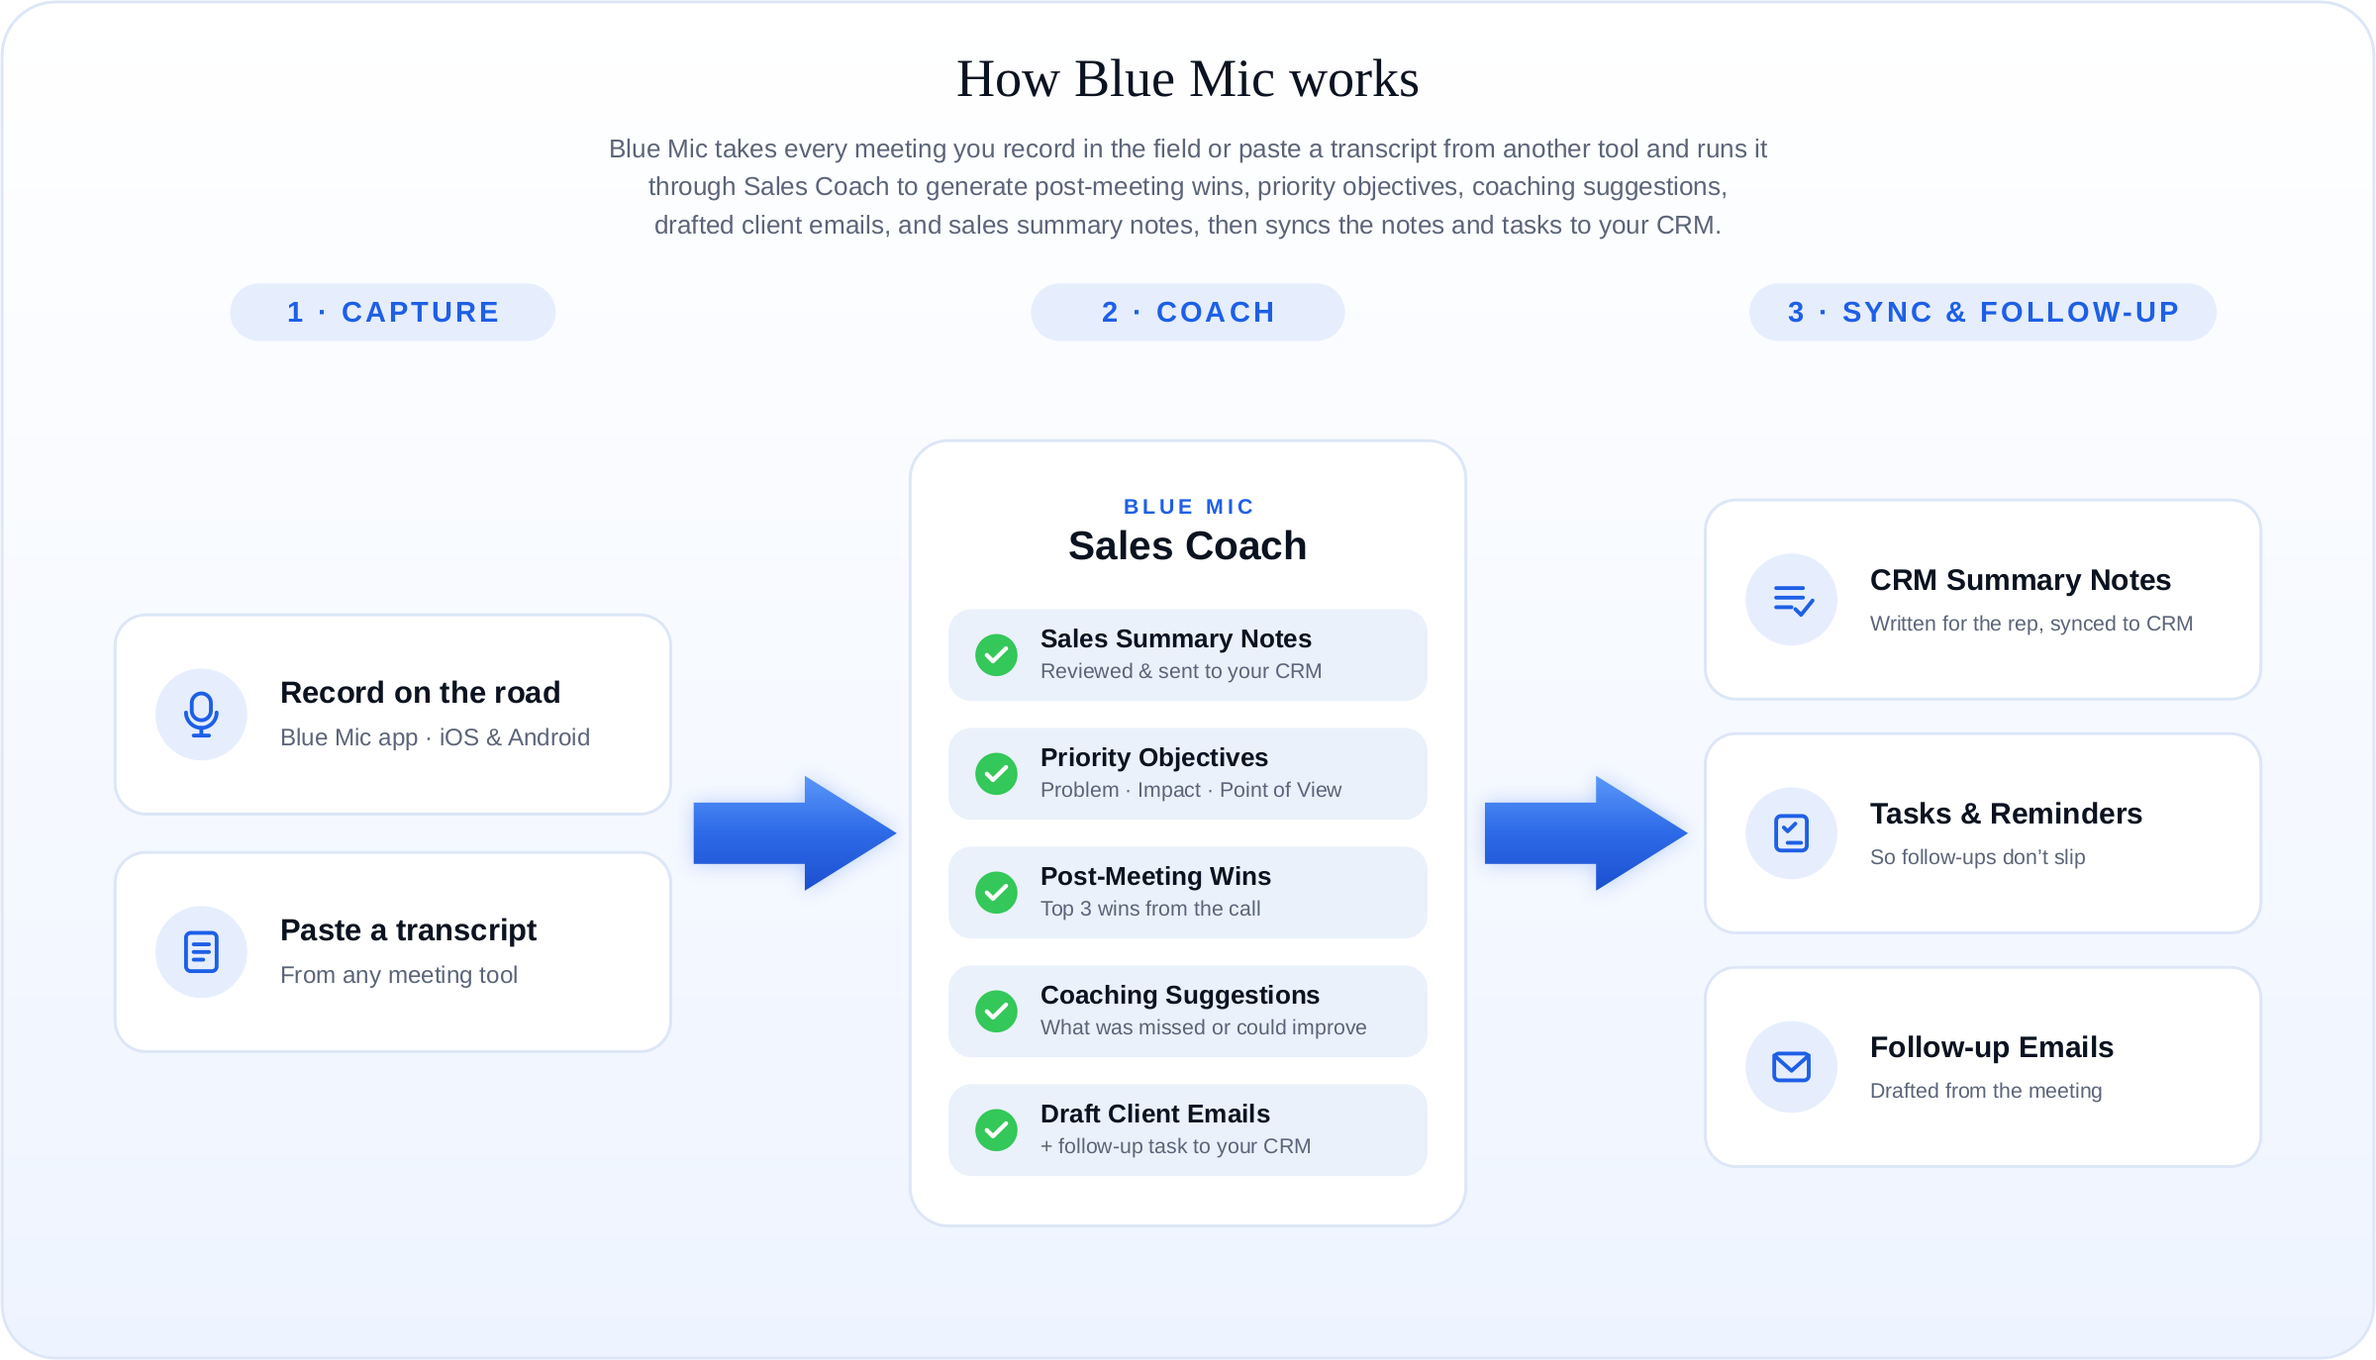
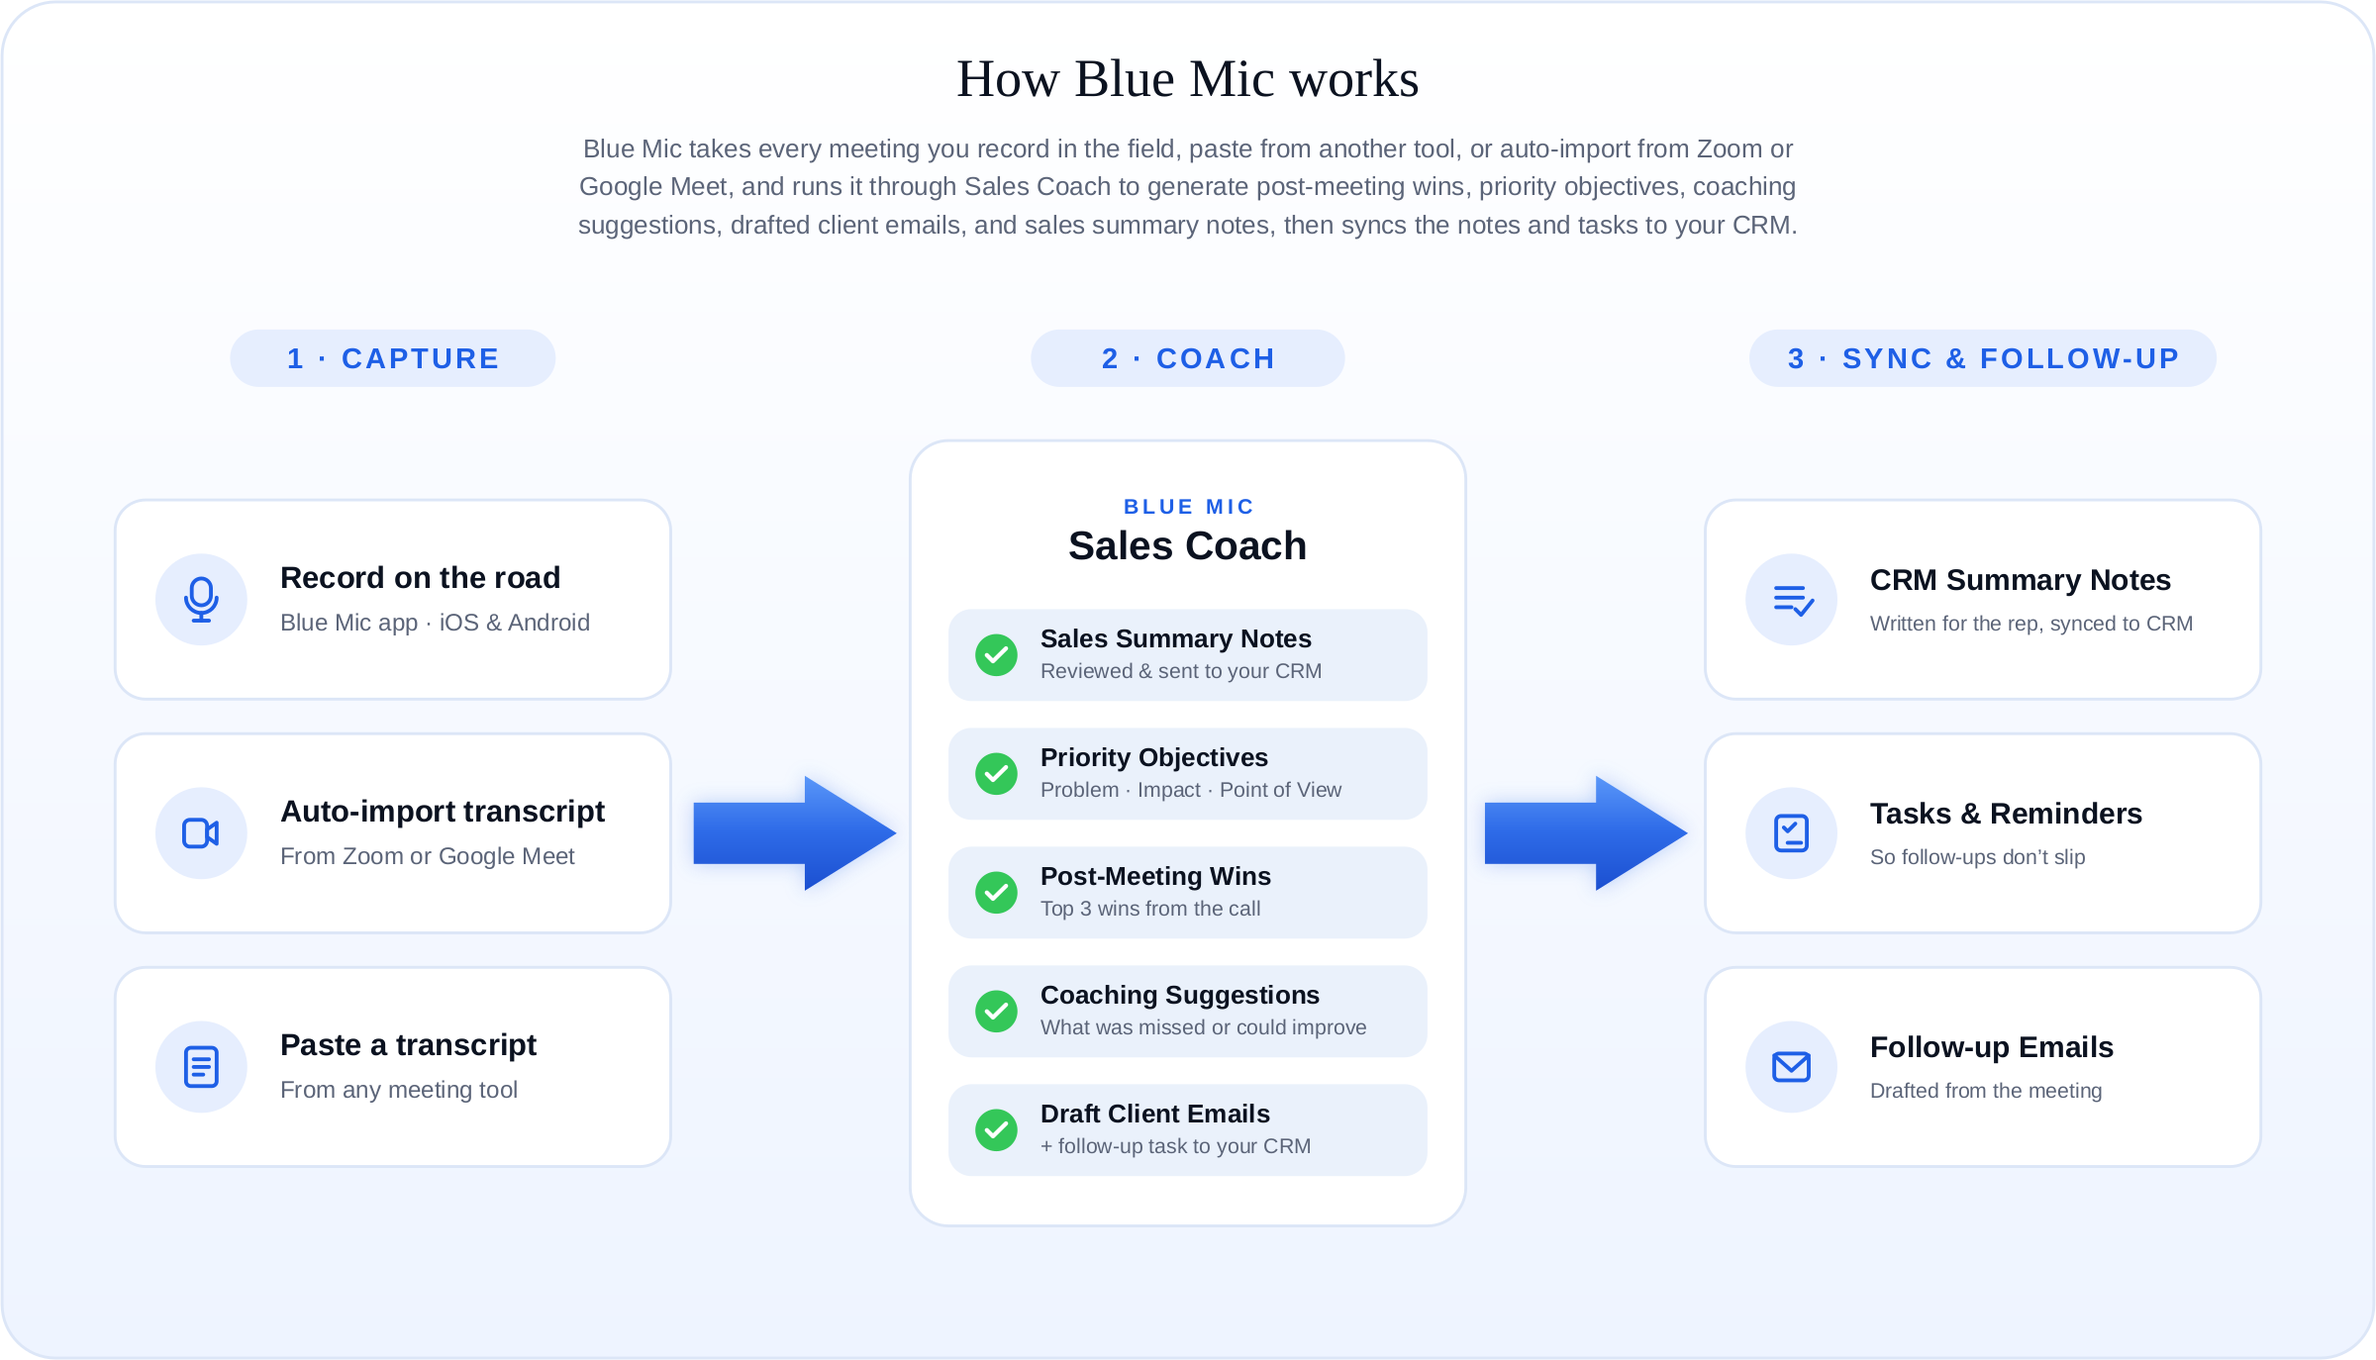
Add files via upload

diff --git a/index.html b/index.html
@@ -4,12 +4,14 @@
 <meta charset="utf-8" />
 <meta name="viewport" content="width=device-width,initial-scale=1,viewport-fit=cover" />
 <title>Blue Mic | Sales Coaching &amp; CRM Automation for Enterprise Teams</title>
-<meta name="description" content="Blue Mic turns every sales conversation into CRM-ready notes, coaching, follow-up emails, and next steps, automatically. Reps record on the road with the iOS &amp; Android app, or paste a transcript from any tool. Enterprise only." />
+<meta name="description" content="Blue Mic turns every sales conversation into CRM-ready notes, coaching, follow-up emails, and next steps, automatically. Reps record on the road with the iOS &amp; Android app, paste a transcript from any tool, or auto-import from Zoom or Google Meet. Enterprise only." />
 <meta name="theme-color" content="#F1F5FB" />
 <meta property="og:title" content="Blue Mic | Sales Coaching &amp; CRM Automation for Enterprise Teams" />
 <meta property="og:description" content="Every sales call, coached and in your CRM. Blue Mic drafts summary notes, follow-up emails, and reminders, and syncs them straight into your CRM." />
 <meta property="og:type" content="website" />
 <meta property="og:image" content="https://blue-mic.com/blue-mic-workflow.png" />
+<meta property="og:url" content="https://blue-mic.com/" />
+<link rel="canonical" href="https://blue-mic.com/" />
 <link rel="icon" href="favicon.svg" type="image/svg+xml" />
 
 <link rel="preconnect" href="https://fonts.googleapis.com" />
@@ -203,7 +205,7 @@
     <span class="eyebrow">Sales Coaching &amp; CRM Automation &middot; Enterprise</span>
     <h1>Record. Coach.<br><span class="italic">Take Action.</span></h1>
     <p class="lede">
-      Blue Mic turns every sales conversation into coaching, CRM-ready notes, follow-up emails, and next-step reminders, automatically. Your reps record meetings on the road, or paste a transcript from any tool, and Blue Mic runs the entire post-call workflow.
+      Blue Mic turns every sales conversation into coaching, CRM-ready notes, follow-up emails, and next-step reminders, automatically. Your reps record meetings on the road, paste a transcript from any tool, or auto-import from Zoom or Google Meet, and Blue Mic runs the entire post-call workflow.
     </p>
     <div class="hero-cta">
       <a class="btn btn-ghost btn-lg" href="#works">See How It Works</a>
@@ -222,9 +224,9 @@
   <div class="container">
     <div class="stats-ribbon">
       <div class="ribbon-stat">
-        <div class="ribbon-num">3</div>
+        <div class="ribbon-num">4</div>
         <div class="ribbon-label">Ways to capture</div>
-        <div class="ribbon-sub">iPhone, Android, or paste a transcript</div>
+        <div class="ribbon-sub">iPhone, Android, paste, or auto-import transcripts from Zoom or Google Meet</div>
       </div>
       <div class="ribbon-stat">
         <div class="ribbon-num">5</div>
@@ -251,17 +253,17 @@
     <span class="eyebrow">How Blue Mic Works</span>
     <h2 style="max-width:20ch; margin-left:auto; margin-right:auto;">From conversation to <span class="italic">a closed loop.</span></h2>
     <p class="lede" style="margin: 18px auto 0; text-align:center;">
-      One workflow, whether the meeting was recorded in the field or pasted in from another tool: Blue Mic coaches the call, writes the CRM notes, drafts the follow-ups, and reminds the rep to send them.
+      One workflow, whether the meeting was recorded in the field, pasted in from another tool, or auto-imported from Zoom or Google Meet: Blue Mic coaches the call, writes the CRM notes, drafts the follow-ups, and reminds the rep to send them.
     </p>
 
     <figure class="workflow-figure">
-      <img src="blue-mic-workflow.svg" alt="The Blue Mic workflow: capture a meeting by recording on the road with the iOS or Android app or by pasting a transcript, run Sales Coach to surface wins, score priority objectives, and generate coaching, then sync summary notes, follow-up tasks and reminders, and drafted emails back to your CRM." />
+      <img src="blue-mic-workflow.svg" alt="The Blue Mic workflow: capture a meeting by recording on the road with the iOS or Android app, pasting a transcript, or auto-importing from Zoom or Google Meet, run Sales Coach to surface wins, score priority objectives, and generate coaching, then sync summary notes, follow-up tasks and reminders, and drafted emails back to your CRM." />
     </figure>
 
     <div class="three-beats">
       <article class="beat">
         <h3>Capture anywhere</h3>
-        <p>Record in-person and on-the-road meetings with the Blue Mic app for iOS and Android, or paste a transcript from any other meeting tool.</p>
+        <p>Record in-person and on-the-road meetings with the Blue Mic app for iOS and Android, paste a transcript from any other meeting tool, or auto-import transcripts from Zoom or Google Meet.</p>
       </article>
       <article class="beat">
         <h3>Coach every call</h3>
@@ -439,21 +441,22 @@
 </section>
 
 <!-- Product 01: Capture anywhere -->
-<section class="product reveal">
+<section class="product reveal" style="padding-bottom: clamp(20px, 3vw, 36px);">
   <div class="container">
     <div class="product-row">
       <div class="product-text">
         <span class="tier-badge tier-badge--solo">
           <svg viewBox="0 0 12 12" fill="currentColor" aria-hidden="true"><path d="M6 0.5l1.4 3.1L10.5 5l-3.1 1.4L6 9.5 4.6 6.4 1.5 5l3.1-1.4z"/></svg>
-          iOS &middot; Android &middot; Paste
+          iOS &middot; Android &middot; Paste &middot; Auto-import
         </span>
-        <h2>Record on the road, or <span class="italic">paste from anywhere.</span></h2>
+        <h2>Record it, paste it, or <span class="italic">import it automatically.</span></h2>
         <p class="lede">
-          Reps in the field record meetings with the Blue Mic app on iOS and Android: one tap, a live waveform, and a polished transcript the moment they stop. Back in the office on a different recorder? Paste the transcript into Blue Mic and run the exact same workflow.
+          Reps in the field record meetings with the Blue Mic app on iOS and Android: one tap, a live waveform, and a polished transcript the moment they stop. Back in the office on a different recorder? Paste the transcript into Blue Mic and run the exact same workflow. And when your team meets over Zoom or Google Meet, Blue Mic imports the transcript automatically, with nothing to upload or paste.
         </p>
         <ul>
           <li><span class="check"><svg viewBox="0 0 24 24" fill="none" stroke="currentColor" stroke-width="3" stroke-linecap="round" stroke-linejoin="round"><path d="M20 6 9 17l-5-5"/></svg></span> Record live with the Blue Mic app on iOS and Android</li>
           <li><span class="check"><svg viewBox="0 0 24 24" fill="none" stroke="currentColor" stroke-width="3" stroke-linecap="round" stroke-linejoin="round"><path d="M20 6 9 17l-5-5"/></svg></span> Paste a transcript from any meeting recorder or notetaker</li>
+          <li><span class="check"><svg viewBox="0 0 24 24" fill="none" stroke="currentColor" stroke-width="3" stroke-linecap="round" stroke-linejoin="round"><path d="M20 6 9 17l-5-5"/></svg></span> Auto-import transcripts from Zoom and Google Meet, with nothing to upload or paste</li>
           <li><span class="check"><svg viewBox="0 0 24 24" fill="none" stroke="currentColor" stroke-width="3" stroke-linecap="round" stroke-linejoin="round"><path d="M20 6 9 17l-5-5"/></svg></span> Open the web app in any browser to review meetings and run Sales Coach</li>
           <li><span class="check"><svg viewBox="0 0 24 24" fill="none" stroke="currentColor" stroke-width="3" stroke-linecap="round" stroke-linejoin="round"><path d="M20 6 9 17l-5-5"/></svg></span> Either way, every meeting runs the full Sales Coach workflow</li>
         </ul>
@@ -502,10 +505,55 @@
 </section>
 
 <!-- Integrations -->
-<section class="product reveal" style="background: linear-gradient(180deg, var(--bg-soft) 0%, var(--bg) 100%); border-top: none;">
+<section class="product reveal" style="background: linear-gradient(180deg, var(--bg-soft) 0%, var(--bg) 100%); border-top: none; padding-top: clamp(10px, 2vw, 20px);">
   <div class="container">
     <!-- CRM integrations sub-band -->
-    <div id="integrations" class="crm-band">
+    <div id="integrations" class="crm-band" style="margin-top: 0; padding-top: clamp(20px, 3vw, 36px); border-top: none;">
+      <!-- Meeting-source integrations sub-band: auto-import transcripts (Zoom + Google Meet) -->
+      <span class="crm-band-eyebrow">Pulls in your meeting transcripts</span>
+      <p style="text-align:center; max-width:58ch; margin:-16px auto 34px; color:var(--muted); font-family:var(--font-sans); font-size:15px; line-height:1.55;">
+        When your team meets over Zoom or Google Meet, Blue Mic can be set up to import the transcript automatically.
+      </p>
+
+      <div class="crm-tier-title crm-current-title">Current Integrations</div>
+      <div class="crm-current-grid">
+          <div class="crm-chip crm-chip--live">
+            <img src="zoom-logo.png" alt="Zoom" class="crm-brand-logo" style="height:78px;width:auto;max-width:180px;display:block;object-fit:contain;" onerror="this.style.display='none'; this.nextElementSibling.style.display='inline-flex';">
+            <div class="crm-logo" style="display:none;">
+              <svg viewBox="0 0 48 48" style="width:36px;height:36px;flex-shrink:0;" aria-hidden="true"><rect x="2" y="2" width="44" height="44" rx="11" fill="#2D8CFF"/><path d="M13 19.2c0-1.55 1.25-2.8 2.8-2.8h9.9c1.55 0 2.8 1.25 2.8 2.8v9.6c0 1.55-1.25 2.8-2.8 2.8h-9.9c-1.55 0-2.8-1.25-2.8-2.8v-9.6z" fill="#fff"/><path d="M30.2 21.3l4.7-2.9c.85-.52 1.95.09 1.95 1.08v9.04c0 .99-1.1 1.6-1.95 1.08l-4.7-2.9v-5.4z" fill="#fff"/></svg>
+              <span class="crm-wordmark">Zoom</span>
+            </div>
+            <span class="crm-status crm-status--live">
+              <span class="crm-status-dot"></span>
+              Live
+            </span>
+          </div>
+          <div class="crm-chip crm-chip--live">
+            <img src="google-meet-logo.png" alt="Google Meet" class="crm-brand-logo" style="height:78px;width:auto;max-width:215px;display:block;object-fit:contain;" onerror="this.style.display='none'; this.nextElementSibling.style.display='inline-flex';">
+            <div class="crm-logo" style="display:none;">
+              <svg viewBox="0 0 87.5 72" style="width:42px;height:34.5px;flex-shrink:0;" aria-hidden="true"><path fill="#00832d" d="M49.5 36l8.53 9.75 11.47 7.33 2-17.02-2-16.64-11.69 6.44z"/><path fill="#0066da" d="M0 51.5V66c0 3.315 2.685 6 6 6h14.5l3-10.96-3-9.54-9.95-3z"/><path fill="#e94235" d="M20.5 0L0 20.5l10.55 3 9.95-3 2.95-9.41z"/><path fill="#2684fc" d="M20.5 20.5H0v31h20.5z"/><path fill="#00ac47" d="M82.6 8.68L69.5 19.42v33.66l13.16 10.79c1.97 1.54 4.85.135 4.85-2.37V11c0-2.535-2.945-3.925-4.91-2.32zM49.5 36v15.5h-29V72h43c3.315 0 6-2.685 6-6V53.08z"/><path fill="#ffba00" d="M63.5 0h-43v20.5h29V36l20-16.57V6c0-3.315-2.685-6-6-6z"/></svg>
+              <span class="crm-wordmark">Google Meet</span>
+            </div>
+            <span class="crm-status crm-status--live">
+              <span class="crm-status-dot"></span>
+              Live
+            </span>
+          </div>
+      </div>
+
+      <div style="max-width:720px; margin:0 auto; text-align:center;">
+        <div class="crm-tier-title" style="margin-bottom:12px;">On the Roadmap</div>
+        <div class="crm-roadmap" style="justify-content:center;">
+          <div class="crm-roadmap-item">
+            <span class="crm-dot" style="background:#6264A7;"></span>
+            <span>Microsoft Teams</span>
+          </div>
+        </div>
+      </div>
+
+      <!-- divider between transcript-source and CRM sub-bands -->
+      <div style="margin:clamp(28px,4vw,48px) 0 clamp(32px,5vw,52px); border-top:1px solid var(--line-soft);"></div>
+
       <span class="crm-band-eyebrow">Connects with your CRM</span>
 
       <div class="crm-tier-title crm-current-title">Current Integrations</div>
@@ -585,7 +633,7 @@
     <span class="eyebrow">For Sales Managers</span>
     <h2 style="max-width:22ch; margin-left:auto; margin-right:auto;">Every rep's meetings, in <span class="italic">one place.</span></h2>
     <p class="lede" style="margin: 18px auto 0; text-align:center;">
-      Team Meetings gives managers a read-only view of every meeting their reps record or paste in, complete with Sales Coach results and awards. Open any call to review its summary, transcript, audio, and coaching, for the whole team.
+      Team Meetings gives managers a read-only view of every meeting their reps record, paste in, or auto-import, complete with Sales Coach results and awards. Open any call to review its summary, transcript, audio, and coaching, for the whole team.
     </p>
 
     <figure style="margin: clamp(32px, 5vw, 56px) auto 0; max-width: 1180px;">
@@ -715,7 +763,7 @@
           How do reps capture meetings?
           <span style="color: var(--blue); font-size: 22px; transition: transform .2s;">+</span>
         </summary>
-        <div style="padding: 0 26px 22px; color: var(--muted); font-size: 15px;">Two ways. On the road, reps record with the Blue Mic app for iOS and Android: one tap, and Blue Mic produces the transcript and summary automatically. In the office on another recorder or notetaker, they simply paste the transcript into Blue Mic and run the exact same coaching, notes, and follow-up workflow.</div>
+        <div style="padding: 0 26px 22px; color: var(--muted); font-size: 15px;">Three ways. On the road, reps record with the Blue Mic app for iOS and Android: one tap, and Blue Mic produces the transcript and summary automatically. For virtual calls, Blue Mic can be set up to auto-import transcripts from Zoom or Google Meet. And on another recorder or notetaker, they simply paste the transcript into Blue Mic. Every path runs the exact same coaching, notes, and follow-up workflow.</div>
       </details>
       <details class="card" style="padding: 0;">
         <summary style="cursor:pointer; padding: 22px 26px; font-weight: 600; list-style: none; display:flex; justify-content: space-between; align-items: center;">
@@ -743,7 +791,7 @@
           Do we have to change how our team already records meetings?
           <span style="color: var(--blue); font-size: 22px;">+</span>
         </summary>
-        <div style="padding: 0 26px 22px; color: var(--muted); font-size: 15px;">No. If your reps already use another meeting recorder or transcription tool, they can paste that transcript straight into Blue Mic and still get the full coaching, notes, and follow-up workflow.</div>
+        <div style="padding: 0 26px 22px; color: var(--muted); font-size: 15px;">No. If your reps already use another meeting recorder or transcription tool, they can paste that transcript straight into Blue Mic, or auto-import it from Zoom or Google Meet, and still get the full coaching, notes, and follow-up workflow.</div>
       </details>
       <details class="card" style="padding: 0;">
         <summary style="cursor:pointer; padding: 22px 26px; font-weight: 600; list-style: none; display:flex; justify-content: space-between; align-items: center;">
